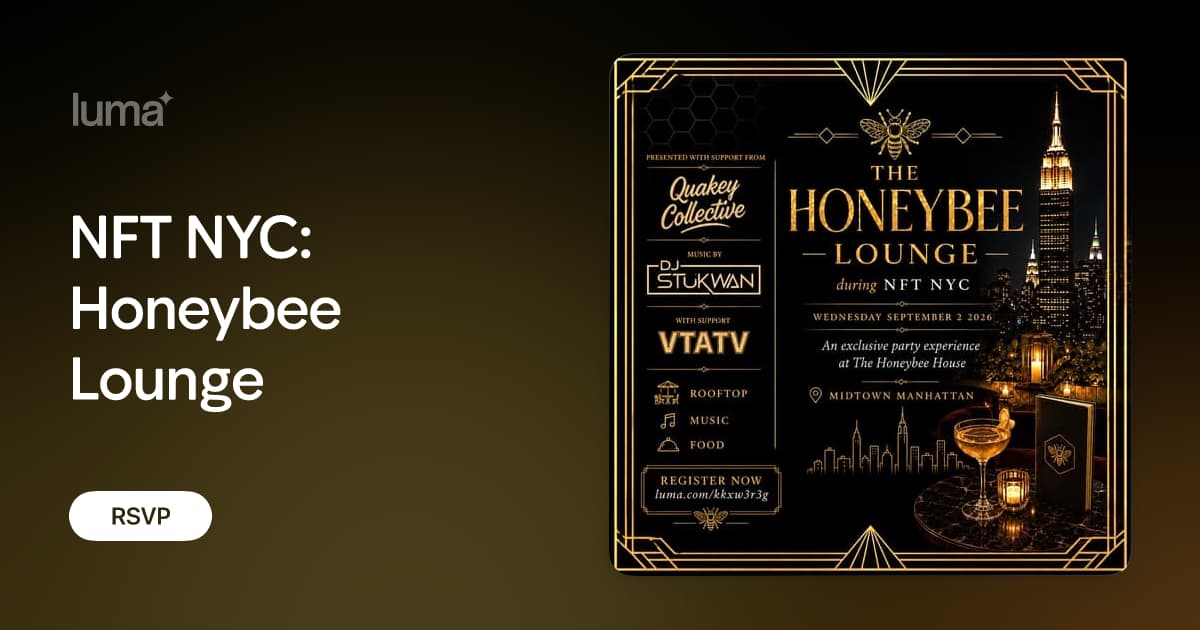
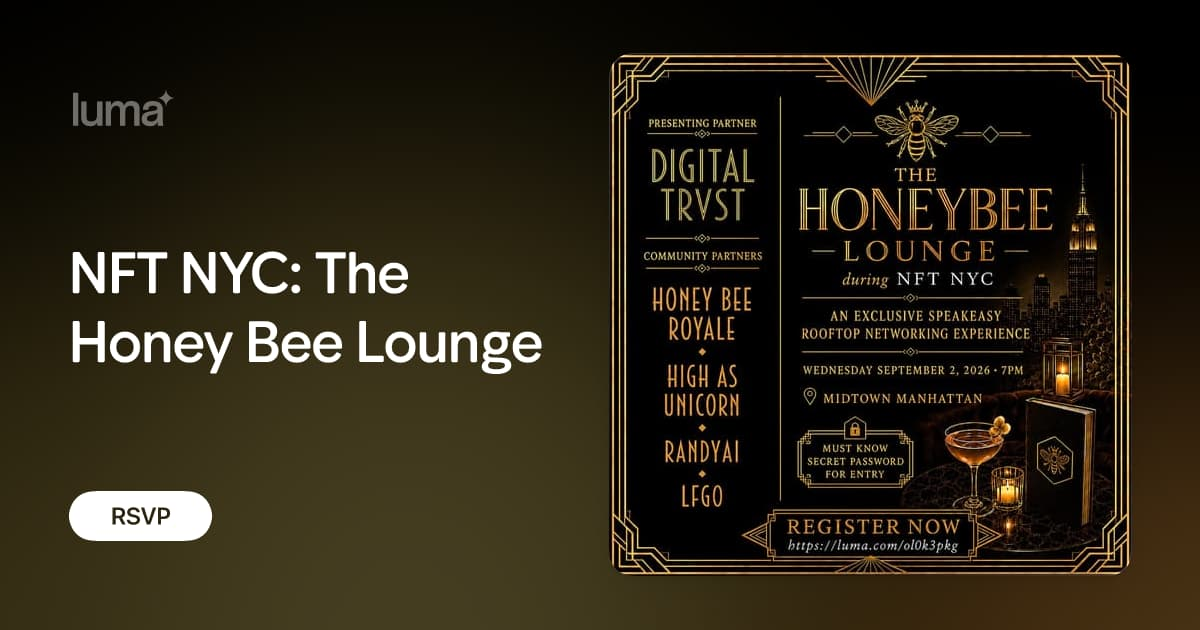
Update Honeybee event on /events with new Luma details
Fresh Luma page (luma.com/ol0k3pkg) has confirmed date/time and
partners:
- Name: "NFT NYC: The Honey Bee Lounge"
- Host: The Honey Bee Lounge × Digital Trvst
- Date: Tuesday, Sept 2, 2026 · 7:00 PM – 11:30 PM
- Description now names community partners (Honey Bee Royale, High as
  Unicorn, RandyAI, LFGO)
- Registration URL swapped for the new Luma link
- Cover image replaced with the new Luma cover

Changed region(s): [[0.4933, 0.0603, 0.9558, 0.9349], [0.0617, 0.3317, 0.4625, 0.6635]]

diff --git a/src/pages/Events.tsx b/src/pages/Events.tsx
@@ -43,14 +43,14 @@ const EVENTS: SatelliteEvent[] = [
     tag: 'Community',
   },
   {
-    name: 'NFT NYC: Honeybee Lounge',
-    host: 'Bee & The Bitcoin Barbie',
+    name: 'NFT NYC: The Honey Bee Lounge',
+    host: 'The Honey Bee Lounge × Digital Trvst',
     date: '2026-09-02',
-    dateLabel: 'During NFT.NYC Week · Exact date TBA',
-    venue: 'The Honeybee House · Midtown Manhattan',
+    dateLabel: 'Tuesday, Sept 2, 2026 · 7:00 PM – 11:30 PM',
+    venue: 'Rooftop · New York, NY',
     description:
-      'Rooftop party with music, drinks, food, games, and prizes. Registration requires host approval. Partners include the Quakey Collective, music by Stu Kwan, and media by VTATV.',
-    registrationUrl: 'https://luma.com/kkxw3r3g',
+      'An exclusive speakeasy event and NFT.NYC networking rooftop: live music, open bar, food, games, and prizes. Community partners: Honey Bee Royale, High as Unicorn, RandyAI, LFGO.',
+    registrationUrl: 'https://luma.com/ol0k3pkg',
     tag: 'Community',
     image: '/events/honeybee-lounge.png',
   },
